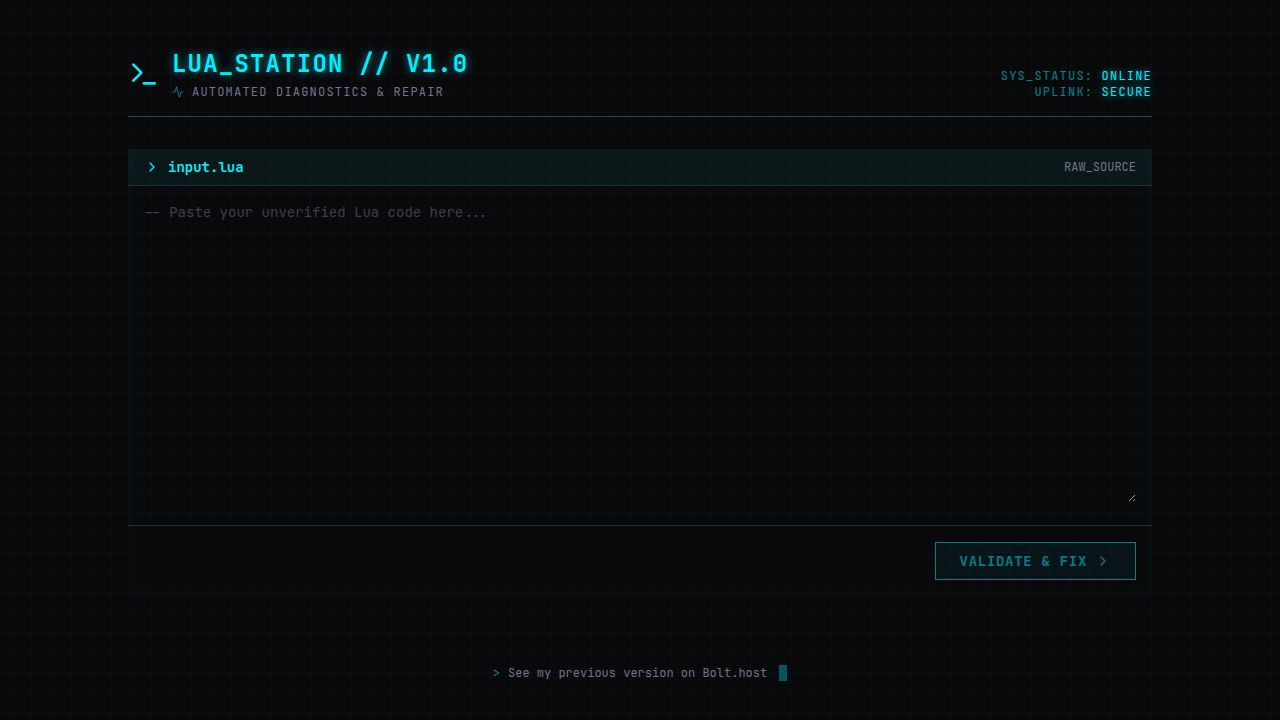
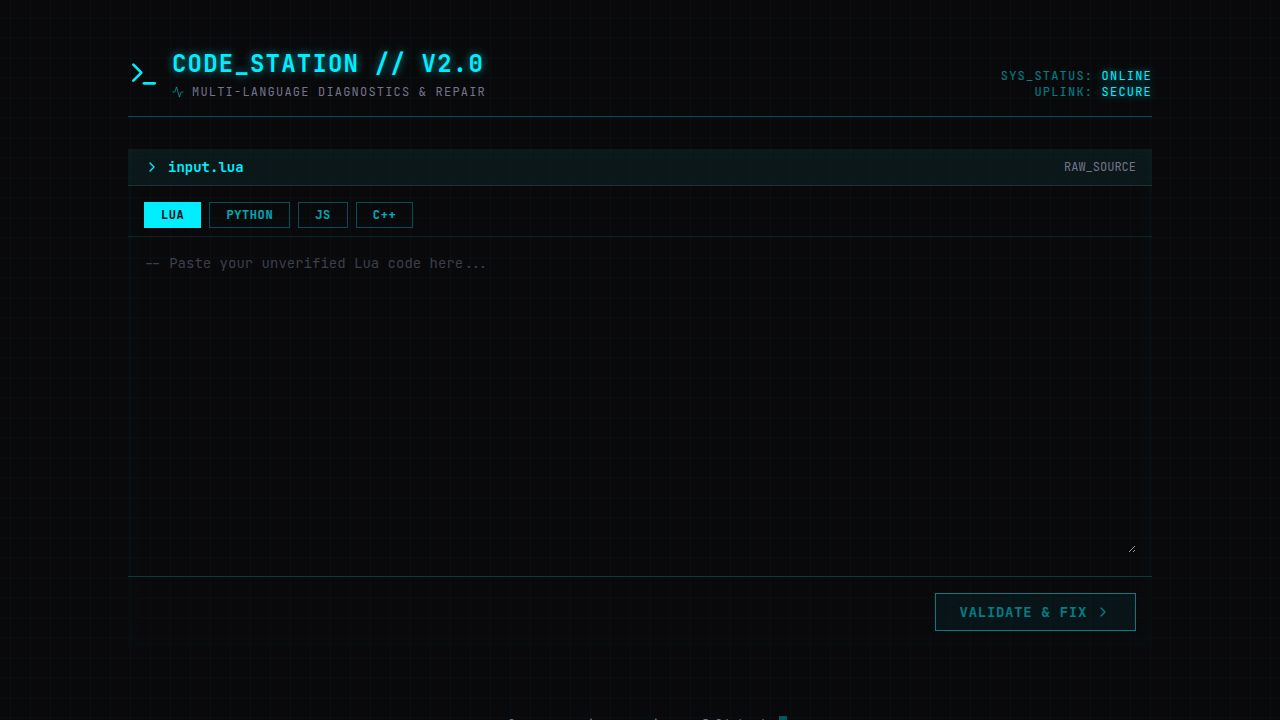
Expand code validation to support JavaScript and C++ languages
Adds validation logic and UI support for JavaScript and C++ in the code fixer application, alongside existing Lua and Python support.

Replit-Commit-Author: Agent
Replit-Commit-Session-Id: ad25aba9-4795-4cbc-b8d2-c01b44ed86ea
Replit-Commit-Checkpoint-Type: full_checkpoint
Replit-Commit-Event-Id: cc04ad70-5067-4701-95cf-30266678448e
Replit-Commit-Screenshot-Url: https://storage.googleapis.com/screenshot-production-us-central1/3f5c7b33-3ebd-4657-89ba-0a001219badb/ad25aba9-4795-4cbc-b8d2-c01b44ed86ea/FNwuRQD
Replit-Helium-Checkpoint-Created: true

diff --git a/artifacts/api-server/src/routes/lua.ts b/artifacts/api-server/src/routes/lua.ts
@@ -53,20 +53,17 @@ function validateLua(code: string): { errors: string[]; fixedCode: string } {
 
 function validatePython(code: string): { errors: string[]; fixedCode: string } {
   const errors: string[] = [];
-  let fixedCode = code;
   const lines = code.split("\n");
   const fixedLines = [...lines];
 
   lines.forEach((line, i) => {
     const trimmed = line.trimEnd();
 
-    // def without colon
     if (/^\s*def\s+\w+\s*\(.*\)\s*$/.test(trimmed)) {
       errors.push(`Line ${i + 1}: Function definition 'def' is missing a colon (:) at the end.`);
       fixedLines[i] = trimmed + ":";
     }
 
-    // if/elif/else/for/while/with/class/try/except/finally without colon
     if (
       /^\s*(if|elif|else|for|while|with|class|try|except|finally)\b/.test(trimmed) &&
       !/:\s*(#.*)?$/.test(trimmed)
@@ -76,24 +73,139 @@ function validatePython(code: string): { errors: string[]; fixedCode: string } {
       fixedLines[i] = trimmed + ":";
     }
 
-    // print without parentheses (Python 2 style)
     if (/^\s*print\s+[^(]/.test(trimmed)) {
       errors.push(`Line ${i + 1}: 'print' looks like Python 2 syntax — use print() with parentheses.`);
       fixedLines[i] = trimmed.replace(/^(\s*)print\s+(.*)$/, (_, indent, args) => `${indent}print(${args})`);
     }
 
-    // == True/False/None (should use 'is' for identity checks)
     if (/==\s*(True|False|None)\b/.test(trimmed)) {
       const val = trimmed.match(/==\s*(True|False|None)/)?.[1];
       errors.push(`Line ${i + 1}: Comparing with ${val} using '==' — prefer 'is ${val}' for identity checks.`);
     }
   });
 
-  if (errors.length > 0) {
-    fixedCode = fixedLines.join("\n");
+  return { errors, fixedCode: errors.length === 0 ? code : fixedLines.join("\n") };
+}
+
+function validateJavaScript(code: string): { errors: string[]; fixedCode: string } {
+  const errors: string[] = [];
+  const lines = code.split("\n");
+  const fixedLines = [...lines];
+
+  lines.forEach((line, i) => {
+    const trimmed = line.trimEnd();
+
+    // function declaration without opening brace
+    if (/^\s*function\s+\w+\s*\(.*\)\s*$/.test(trimmed)) {
+      errors.push(`Line ${i + 1}: Function declaration is missing opening brace '{'.`);
+      fixedLines[i] = trimmed + " {";
+    }
+
+    // if/for/while condition without parentheses
+    if (/^\s*(if|for|while)\s+[^(]/.test(trimmed)) {
+      const keyword = trimmed.match(/^\s*(\w+)/)?.[1];
+      errors.push(`Line ${i + 1}: '${keyword}' condition must be wrapped in parentheses ( ).`);
+      fixedLines[i] = trimmed.replace(
+        /^(\s*)(if|for|while)\s+(.*)$/,
+        (_, indent, kw, cond) => `${indent}${kw} (${cond.replace(/\s*\{.*$/, "")}) {`
+      );
+    }
+
+    // == instead of === (loose equality)
+    if (/[^=!<>]==[^=]/.test(trimmed) && !/^\s*(\/\/|\/\*)/.test(trimmed)) {
+      errors.push(`Line ${i + 1}: Loose equality '==' found — prefer strict equality '===' in JavaScript.`);
+      fixedLines[i] = trimmed.replace(/([^=!<>])==([^=])/g, "$1===$2");
+    }
+
+    // != instead of !==
+    if (/!=[^=]/.test(trimmed) && !/^\s*(\/\/|\/\*)/.test(trimmed)) {
+      errors.push(`Line ${i + 1}: Loose inequality '!=' found — prefer strict '!==' in JavaScript.`);
+      fixedLines[i] = fixedLines[i].replace(/!=([^=])/g, "!==$1");
+    }
+
+    // var instead of let/const
+    if (/^\s*var\s+/.test(trimmed)) {
+      errors.push(`Line ${i + 1}: 'var' is legacy — prefer 'let' or 'const' instead.`);
+      fixedLines[i] = trimmed.replace(/^(\s*)var\s+/, "$1let ");
+    }
+
+    // missing semicolon at end of statement (heuristic)
+    if (
+      /^\s*(return|throw|break|continue|let\s|const\s|var\s)/.test(trimmed) &&
+      !/[;{,](\s*(\/\/.*)?)?$/.test(trimmed)
+    ) {
+      errors.push(`Line ${i + 1}: Statement appears to be missing a semicolon (;) at the end.`);
+      fixedLines[i] = trimmed + ";";
+    }
+  });
+
+  // Check for unclosed braces
+  const openBraces = (code.match(/\{/g) || []).length;
+  const closeBraces = (code.match(/\}/g) || []).length;
+  if (openBraces > closeBraces) {
+    const missing = openBraces - closeBraces;
+    errors.push(`Missing ${missing} closing brace(s) '}' — check that all blocks are properly closed.`);
+    fixedLines.push("}".repeat(missing));
   }
 
-  return { errors, fixedCode: errors.length === 0 ? code : fixedCode };
+  return { errors, fixedCode: errors.length === 0 ? code : fixedLines.join("\n") };
+}
+
+function validateCpp(code: string): { errors: string[]; fixedCode: string } {
+  const errors: string[] = [];
+  const lines = code.split("\n");
+  const fixedLines = [...lines];
+
+  lines.forEach((line, i) => {
+    const trimmed = line.trimEnd();
+
+    // cout/cin without semicolon
+    if (
+      /^\s*(cout|cin|std::cout|std::cin)\s*/.test(trimmed) &&
+      !/;\s*(\/\/.*)?$/.test(trimmed)
+    ) {
+      errors.push(`Line ${i + 1}: 'cout'/'cin' statement is missing a semicolon (;) at the end.`);
+      fixedLines[i] = trimmed + ";";
+    }
+
+    // return without semicolon
+    if (/^\s*return\s+/.test(trimmed) && !/;\s*(\/\/.*)?$/.test(trimmed)) {
+      errors.push(`Line ${i + 1}: 'return' statement is missing a semicolon (;) at the end.`);
+      fixedLines[i] = trimmed + ";";
+    }
+
+    // #include without angle brackets or quotes
+    if (/^\s*#include\s+[^<"']/.test(trimmed)) {
+      errors.push(`Line ${i + 1}: '#include' requires the header in angle brackets <header> or quotes "header".`);
+    }
+
+    // using namespace without semicolon
+    if (/^\s*using\s+namespace\s+\w+\s*$/.test(trimmed)) {
+      errors.push(`Line ${i + 1}: 'using namespace' statement is missing a semicolon (;).`);
+      fixedLines[i] = trimmed + ";";
+    }
+  });
+
+  // main() without return 0
+  if (/\bmain\s*\(/.test(code) && !/\breturn\s+0\s*;/.test(code)) {
+    errors.push(`Function 'main()' is missing 'return 0;' at the end — required in standard C++.`);
+    // Insert return 0 before the last closing brace
+    const lastBrace = fixedLines.map((l, i) => ({ l, i })).reverse().find(({ l }) => l.trimEnd() === "}");
+    if (lastBrace) {
+      fixedLines.splice(lastBrace.i, 0, "    return 0;");
+    }
+  }
+
+  // Check for unclosed braces
+  const openBraces = (code.match(/\{/g) || []).length;
+  const closeBraces = (code.match(/\}/g) || []).length;
+  if (openBraces > closeBraces) {
+    const missing = openBraces - closeBraces;
+    errors.push(`Missing ${missing} closing brace(s) '}' — check that all blocks are properly closed.`);
+    fixedLines.push("}".repeat(missing));
+  }
+
+  return { errors, fixedCode: errors.length === 0 ? code : fixedLines.join("\n") };
 }
 
 router.post("/code/validate", (req, res) => {
@@ -104,8 +216,15 @@ router.post("/code/validate", (req, res) => {
   }
 
   const { code, language } = parseResult.data;
+
   const { errors, fixedCode } =
-    language === "python" ? validatePython(code) : validateLua(code);
+    language === "python"
+      ? validatePython(code)
+      : language === "javascript"
+        ? validateJavaScript(code)
+        : language === "cpp"
+          ? validateCpp(code)
+          : validateLua(code);
 
   res.json({
     valid: errors.length === 0,

diff --git a/artifacts/lua-fixer/src/App.tsx b/artifacts/lua-fixer/src/App.tsx
@@ -12,9 +12,11 @@ const queryClient = new QueryClient({
   },
 });
 
+type Language = "lua" | "python" | "javascript" | "cpp";
+
 function MainApp() {
   const [code, setCode] = useState("");
-  const [language, setLanguage] = useState<"lua" | "python">("lua");
+  const [language, setLanguage] = useState<Language>("lua");
   const validateMutation = useValidateCode();
 
   const handleValidate = () => {
@@ -22,13 +24,29 @@ function MainApp() {
     validateMutation.mutate({ data: { code, language } });
   };
 
-  const handleLanguageChange = (lang: "lua" | "python") => {
+  const handleLanguageChange = (lang: Language) => {
     setLanguage(lang);
     validateMutation.reset();
   };
 
   const isScanning = validateMutation.isPending;
   const result = validateMutation.data;
+
+  const getExtension = (lang: Language) => {
+    if (lang === "lua") return "lua";
+    if (lang === "python") return "py";
+    if (lang === "javascript") return "js";
+    if (lang === "cpp") return "cpp";
+    return "";
+  };
+
+  const getPlaceholder = (lang: Language) => {
+    if (lang === "lua") return "-- Paste your unverified Lua code here...";
+    if (lang === "python") return "# Paste your unverified Python code here...";
+    if (lang === "javascript") return "// Paste your unverified JavaScript code here...";
+    if (lang === "cpp") return "// Paste your unverified C++ code here...";
+    return "";
+  };
 
   return (
     <div className="min-h-[100dvh] w-full flex flex-col items-center py-12 px-4 sm:px-6 lg:px-8 scanline-container">
@@ -40,7 +58,7 @@ function MainApp() {
             <h1 className="text-2xl font-bold text-primary tracking-wider glitch-glow uppercase">CODE_STATION // V2.0</h1>
             <p className="text-xs text-muted-foreground uppercase tracking-widest mt-1 flex items-center gap-2">
               <Activity className="w-3 h-3 text-primary/50" />
-              Automated Diagnostics & Repair
+              Multi-Language Diagnostics & Repair
             </p>
           </div>
         </div>
@@ -57,15 +75,15 @@ function MainApp() {
         <section className="terminal-panel flex flex-col">
           <div className="bg-secondary/50 border-b border-border px-4 py-2 flex items-center justify-between">
             <span className="text-sm font-bold text-primary flex items-center gap-2">
-              <ChevronRight className="w-4 h-4" /> input.{language === "lua" ? "lua" : "py"}
+              <ChevronRight className="w-4 h-4" /> input.{getExtension(language)}
             </span>
             <span className="text-xs text-muted-foreground uppercase">RAW_SOURCE</span>
           </div>
           
-          <div className="flex px-4 pt-4 pb-2 gap-2 border-b border-border/50">
+          <div className="flex px-4 pt-4 pb-2 gap-2 border-b border-border/50 overflow-x-auto">
             <button
               onClick={() => handleLanguageChange("lua")}
-              className={`px-4 py-1 text-xs font-bold uppercase tracking-wider transition-colors border ${
+              className={`px-4 py-1 text-xs font-bold uppercase tracking-wider transition-colors border whitespace-nowrap ${
                 language === "lua" 
                   ? "bg-primary text-primary-foreground border-primary" 
                   : "bg-transparent text-primary/70 border-primary/30 hover:border-primary/70 hover:text-primary"
@@ -75,7 +93,7 @@ function MainApp() {
             </button>
             <button
               onClick={() => handleLanguageChange("python")}
-              className={`px-4 py-1 text-xs font-bold uppercase tracking-wider transition-colors border ${
+              className={`px-4 py-1 text-xs font-bold uppercase tracking-wider transition-colors border whitespace-nowrap ${
                 language === "python" 
                   ? "bg-primary text-primary-foreground border-primary" 
                   : "bg-transparent text-primary/70 border-primary/30 hover:border-primary/70 hover:text-primary"
@@ -83,12 +101,32 @@ function MainApp() {
             >
               PYTHON
             </button>
+            <button
+              onClick={() => handleLanguageChange("javascript")}
+              className={`px-4 py-1 text-xs font-bold uppercase tracking-wider transition-colors border whitespace-nowrap ${
+                language === "javascript" 
+                  ? "bg-primary text-primary-foreground border-primary" 
+                  : "bg-transparent text-primary/70 border-primary/30 hover:border-primary/70 hover:text-primary"
+              }`}
+            >
+              JS
+            </button>
+            <button
+              onClick={() => handleLanguageChange("cpp")}
+              className={`px-4 py-1 text-xs font-bold uppercase tracking-wider transition-colors border whitespace-nowrap ${
+                language === "cpp" 
+                  ? "bg-primary text-primary-foreground border-primary" 
+                  : "bg-transparent text-primary/70 border-primary/30 hover:border-primary/70 hover:text-primary"
+              }`}
+            >
+              C++
+            </button>
           </div>
 
           <div className="relative p-4 flex-grow">
             <textarea
               className="w-full min-h-[300px] bg-transparent text-foreground placeholder:text-muted-foreground/50 resize-y outline-none font-mono text-sm scrollbar-custom"
-              placeholder={language === "lua" ? "-- Paste your unverified Lua code here..." : "# Paste your unverified Python code here..."}
+              placeholder={getPlaceholder(language)}
               value={code}
               onChange={(e) => setCode(e.target.value)}
               spellCheck={false}